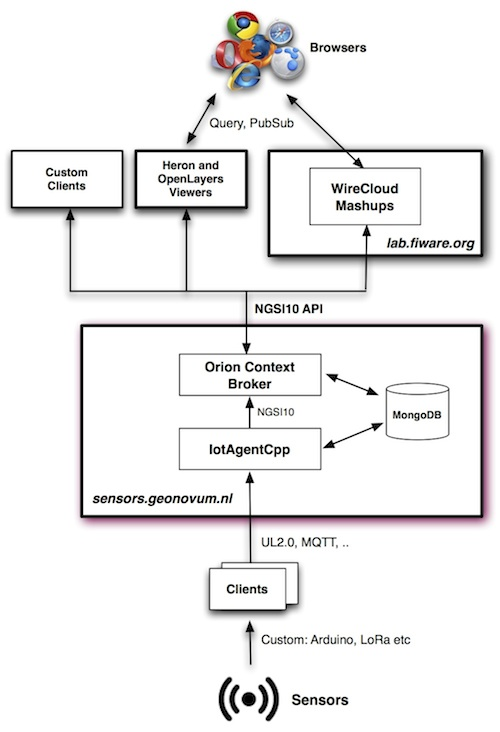
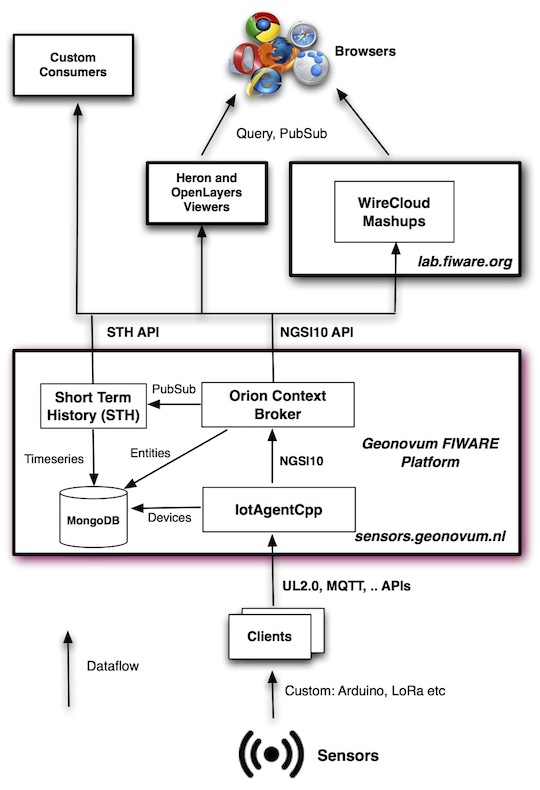
#24 document STH component

diff --git a/docs/fiware.rst b/docs/fiware.rst
@@ -9,13 +9,6 @@ Starting in october 2015 the SOSPilot platform was extended to use and deploy FI
 The Plan
 ========
 
-1. register at lab.fiware.org (justb4)
-2. get connected to public services in Lab
-3. basic Context Broker (Orion) interaction
-4. publish temperatures to IDAS using UltraLight and MQTT protocols
-5. get temperatures from Orion CB
-6. show (in realtime) in Wirecloud Mashup
-
 The architecture used for this setup is depicted below. This
 architecture emerged dynamically as described below.
 
@@ -33,9 +26,11 @@ From bottom to top the setup is as follows:
 * The `FIWARE IoTAgentCpp device API <http://fiware-iot-stack.readthedocs.org/en/latest/device_api/index.html>`_ is used
 * Client libraries (`Python <https://github.com/Geonovum/sospilot/tree/master/src/fiware/client/python>`_, `Arduino <https://github.com/Geonovum/sospilot/tree/master/src/fiware/client/arduino>`_) are used to facilitate using the UL2.0 and MQTT protocols
 * The client may reside anywhere on the Internet
-* the server ``sensors.geonovum.nl`` hosts the FIWARE components ``Orion Context Broker`` (OCB) and the ``IoTAgentCpp``
+* the server ``sensors.geonovum.nl`` hosts the FIWARE components ``Orion Context Broker`` (Orion CB or OCB), ``IoTAgentCpp`` and ``Short Term History (STH)``
 * all persistence for these components is done in ``MongoDB``
-* the ``IoTAgentCpp`` translates requests from the UL2.0/MQTT clients to Orion CB NGSI requests
+* ``IoTAgentCpp`` translates requests from the UL2.0/MQTT clients to Orion CB NGSI requests
+* ``OCB`` persists the *latest* values as Entities in MongoDB
+* ``Short Term History (STH aka STH Comet)`` subscribes to Orion CB NGSI Entity attribute change events and stores *Timeseries* in MongoDB
 * ``WireCloud`` (WC), the Mashup environment runs in the FIWARE Lab server at lab.fiware.org
 * WC communicates to (any) OCB using the NGSI10 protocol
 * within WC mashups are produced in order to view and interact with the sensor data
@@ -45,26 +40,45 @@ NGSI10 is a specification from the Open Mobile Alliance (OMA).
 The FI-WARE version of the OMA NGSI 10 interface is a
 `RESTful API via HTTP <https://forge.fiware.org/plugins/mediawiki/wiki/fiware/index.php/FI-WARE_NGSI-10_Open_RESTful_API_Specification>`_.
 
+STH provides Timeseries storage and an API to request Timeseries data. See https://github.com/telefonicaid/fiware-sth-comet.
+
+The above setup provides APIs for a complete IoT platform:
+
+For data producers (sensors):
+
+* APIs for sensor-provisioning (via UL2.0)
+* APIs (UL2.0, MQTT) for sensors to send observations
+
+For data consumers:
+
+* API to request latest values (NGSI10 Query API)
+* API to subscribe to real-time updates (NGSI10 Publish-Subscribe API)
+* API to request historic timeseries data (STH API)
+
+
 FIWARE Docs
 ===========
 
-http://fiware-iot-stack.readthedocs.org/en/latest/index.html
+This document provides most of the details of the above components: http://fiware-iot-stack.readthedocs.org/en/latest/index.html
 
 Via lab.fiware.org
 ==================
+
+Initially it was attempted to realize the above architecture via the public FIWARE Lab platform but we found some isssues.
+In a later stage the above setup was realized within the Geonovum (Ubuntu/Linux) server VPS. Some info follows:
 
 Registering at the international FIWARE Lab worked ok, but could not get
 the Orion CB with the IDAS IoTAgent working. The interaction between the two
 seemed to be broken. This was reported, see specifics here
 on `StackOverflow <http://stackoverflow.com/questions/32933813/fiware-no-observation-attributes-in-orion-cb-when-registered-sent-via-idas-ultr>`_:
 
-
 And appearantly this
 issue `was found by others <http://stackoverflow.com/questions/31051501/missing-attributes-on-orion-cb-entity-when-registering-device-through-idas>`_ as well.
 
 After an unsuccessful attempt to compile and run the OCB and IoT Agent on Ubuntu 14.04-3
-it was decided to use Docker on the SOSPilot VPS. This seems the best/recommended option anyway as CentOS is the primary
-target platform for FIWARE. See next section.
+it was decided to use Docker on the Geonovum SOSPilot VPS (Ubuntu/Linux server VPS).
+Via Docker seems the best/recommended option anyway as CentOS is the primary
+target platform for FIWARE. See next sections.
 
 Installing FIWARE - with Docker
 ===============================
@@ -116,11 +130,10 @@ Docker utils.  ::
 	# go into docker image named docker_iotacpp_1 to bash prompt
 	docker exec -it docker_iotacpp_1 bash
 
-
 Install FIWARE
 --------------
 
-Installing FIWARE Docker components to realize IoT setup: IoT Agent, Orion CB with MongoDB persistence.
+Installing the FIWARE Docker components to realize IoT setup: IoT Agent, Orion CB, Short term History (STH) with MongoDB persistence.
 Intro: http://www.slideshare.net/dmoranj/iot-agents-introduction
 
 Take docker-compose for fiware-IoTAgent-Cplusplus as starting point:
@@ -166,17 +179,18 @@ Now start. ::
 	# check
 	$ docker images
 	REPOSITORY              TAG                 IMAGE ID            CREATED             VIRTUAL SIZE
-	fiware/orion            latest              a5f228ae72c3        19 hours ago        277.1 MB
-	telefonicaiot/iotacpp   latest              583fbe68b08e        28 hours ago        2.092 GB
-	mongo                   2.6                 dd4b3c1d1e51        5 days ago          392.8 MB
-	ubuntu                  latest              1d073211c498        6 days ago          187.9 MB
-	hello-world             latest              0a6ba66e537a        2 weeks ago         960 B
+	geonovum/orionrush      latest              d097edbfaa4d        2 days ago          535.8 MB
+	geonovum/sthcomet       latest              778b09dbecc9        3 days ago          686.4 MB
+	fiware/orion            latest              a5f228ae72c3        5 weeks ago         277.1 MB
+	telefonicaiot/iotacpp   latest              583fbe68b08e        5 weeks ago         2.092 GB
+	mongo                   2.6                 dd4b3c1d1e51        5 weeks ago         392.8 MB
 
 	$ docker ps
-	CONTAINER ID        IMAGE                   COMMAND                  CREATED              STATUS              PORTS                                                                      NAMES
-	1c9dceec8ec8        telefonicaiot/iotacpp   "/docker-entrypoint.s"   6 seconds ago        Up 5 seconds        0.0.0.0:32772->1883/tcp, 0.0.0.0:8000->8080/tcp, 0.0.0.0:32771->8081/tcp   docker_iotacpp_1
-	7f463ea679b6        fiware/orion            "/usr/bin/contextBrok"   About a minute ago   Up 5 seconds        0.0.0.0:32770->1026/tcp                                                    docker_orion_1
-	41028cff906b        mongo:2.6               "/entrypoint.sh --sma"   29 hours ago         Up 6 seconds        27017/tcp                                                                  docker_mongodb_1
+	CONTAINER ID        IMAGE                   COMMAND                  CREATED             STATUS              PORTS                                                                                      NAMES
+	d3e35f677462        telefonicaiot/iotacpp   "/docker-entrypoint.s"   47 hours ago        Up About an hour    185.21.189.59:1883->1883/tcp, 185.21.189.59:8081->8081/tcp, 185.21.189.59:8000->8080/tcp   docker_iotacpp_1
+	d60d467d4e18        geonovum/sthcomet       "npm start"              47 hours ago        Up About an hour    0.0.0.0:8666->8666/tcp                                                                     docker_sthcomet_1
+	425dd1179b71        geonovum/orionrush      "/docker-entrypoint.s"   47 hours ago        Up About an hour    0.0.0.0:1026->1026/tcp                                                                     docker_orion_1
+	ad755ed4d28f        mongo:2.6               "/entrypoint.sh --sma"   47 hours ago        Up About an hour    27017/tcp                                                                                  docker_mongodb_1
 
 	# get into a container with bash
 	docker exec -it docker_orion_1 bash
@@ -253,7 +267,7 @@ The entry point was changed to :
 .. literalinclude:: ../src/fiware/docker/orionrush/docker-entrypoint.sh
     :language: bash
 
-To run the entire Fiware suite with `IoTAgentCpp`, `OrionRush`, and `MongoDB`, a new docker-compose file
+To run the entire Fiware suite with `IoTAgentCpp`, `OrionRush`, `STH` and `MongoDB`, a new docker-compose file
 was created, ``iotarush.yaml`` :
 
 .. literalinclude:: ../src/fiware/docker/iotarush.yaml
@@ -717,6 +731,8 @@ Within the ``mongodb`` Docker container we can inspect the persisted data in the
 	local            0.031GB
 	orion            0.031GB
 	orion-fiwareiot  0.031GB
+	sth_fiwareiot    0.031GB
+
 	> use iot
 	switched to db iot
 	> show collections
@@ -743,6 +759,19 @@ Within the ``mongodb`` Docker container we can inspect the persisted data in the
 	"temperature" : { "value" : "11", "type" : "int", "md" : [ { "name" : "TimeInstant", "type" : "ISO8601", "value" : "2015-10-31T20:41:28.654329" } ],
 	"creDate" : 1446324088, "modDate" : 1446324088 } }, "creDate" : 1446324088, "modDate" : 1446324088 }
 
+	# timeseries storage
+	> use sth_fiwareiot
+	switched to db sth_fiwareiot
+	> show collections
+	sth_/_dust13ent_thing
+	sth_/_dust13ent_thing.aggr
+	sth_/_nexusent1_thing
+	sth_/_nexusent1_thing.aggr
+	sth_/_tempgeonovument_thing
+	sth_/_tempgeonovument_thing.aggr
+	sth_/_thing:dust13_thing
+	sth_/_thing:dust13_thing.aggr
+	system.indexes
 
 Display Values with WireCloud
 -----------------------------
@@ -906,6 +935,28 @@ sensor. All show a temperature in realtime.
    :align: center
 
    *NGSI10 OpenLayers Vector Layer (blue dots) in HeronViewer*
+
+Timeseries data from STH
+------------------------
+
+The Short Term History (STH) component stores timeseries data. This is achieved by  a ``subscribeContext`` on the
+Orion CB NGSI10 API. This has to be done explicitly. Documentation can be found here: https://github.com/telefonicaid/fiware-sth-comet
+
+In our setup we fire a ``curl`` script to trigger a generic subscription on the ``thing`` entity:
+
+.. literalinclude:: ../src/fiware/docker/sthcomet/subscribe.sh
+    :language: bash
+
+This triggers a flow of data from the Orion CB via the STH to MongoDB. Via the STH REST API we can request timeseries
+data. As we need to send Fiware-HTTP headers we can invoke the STH API using a (Chrome) REST client as follows:
+
+
+.. figure:: _static/fiware/sth-timeseries-rest.jpg
+   :align: center
+
+   *Request Timeseries Data from STH REST API*
+
+
 
 Installing FIWARE - from Source
 ===============================
